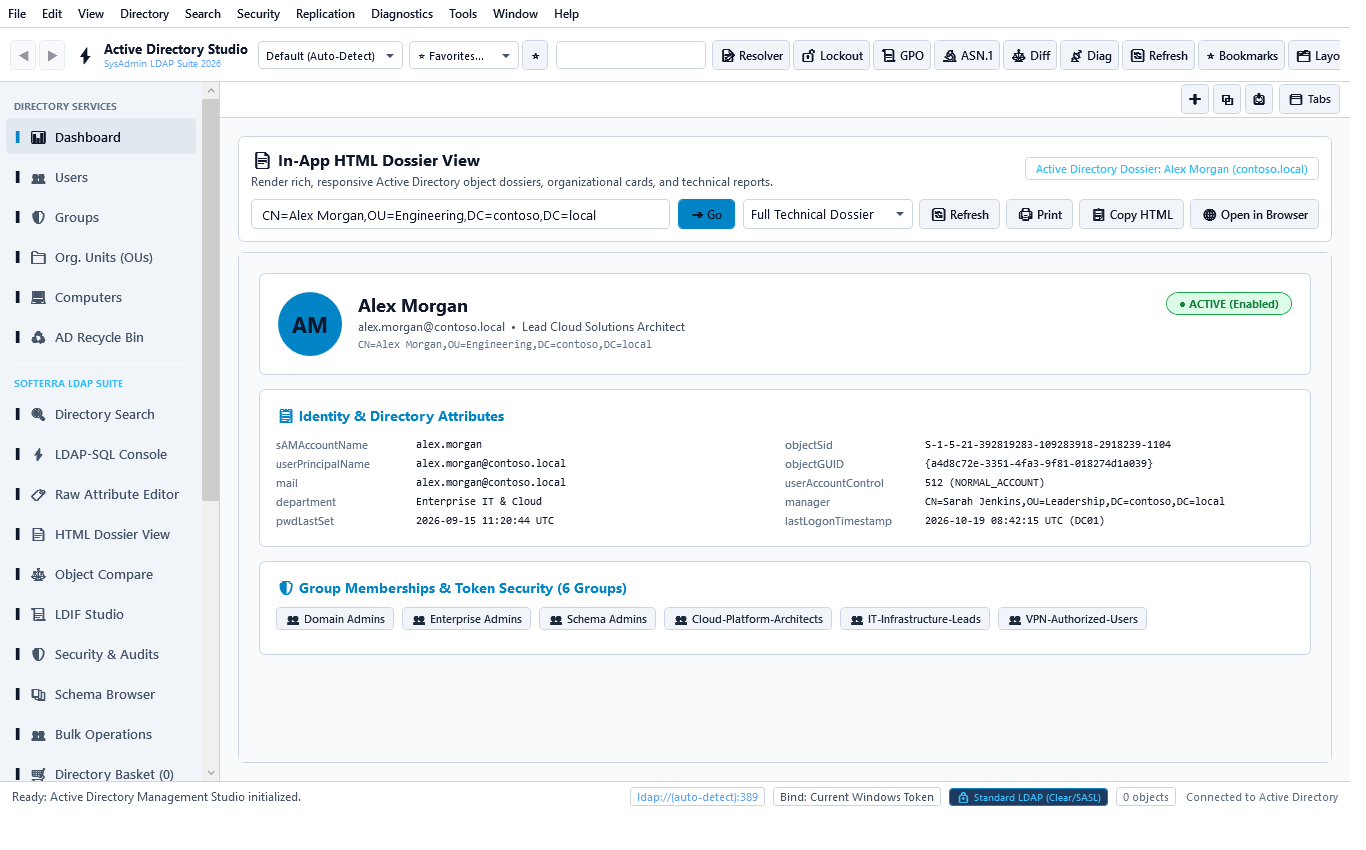
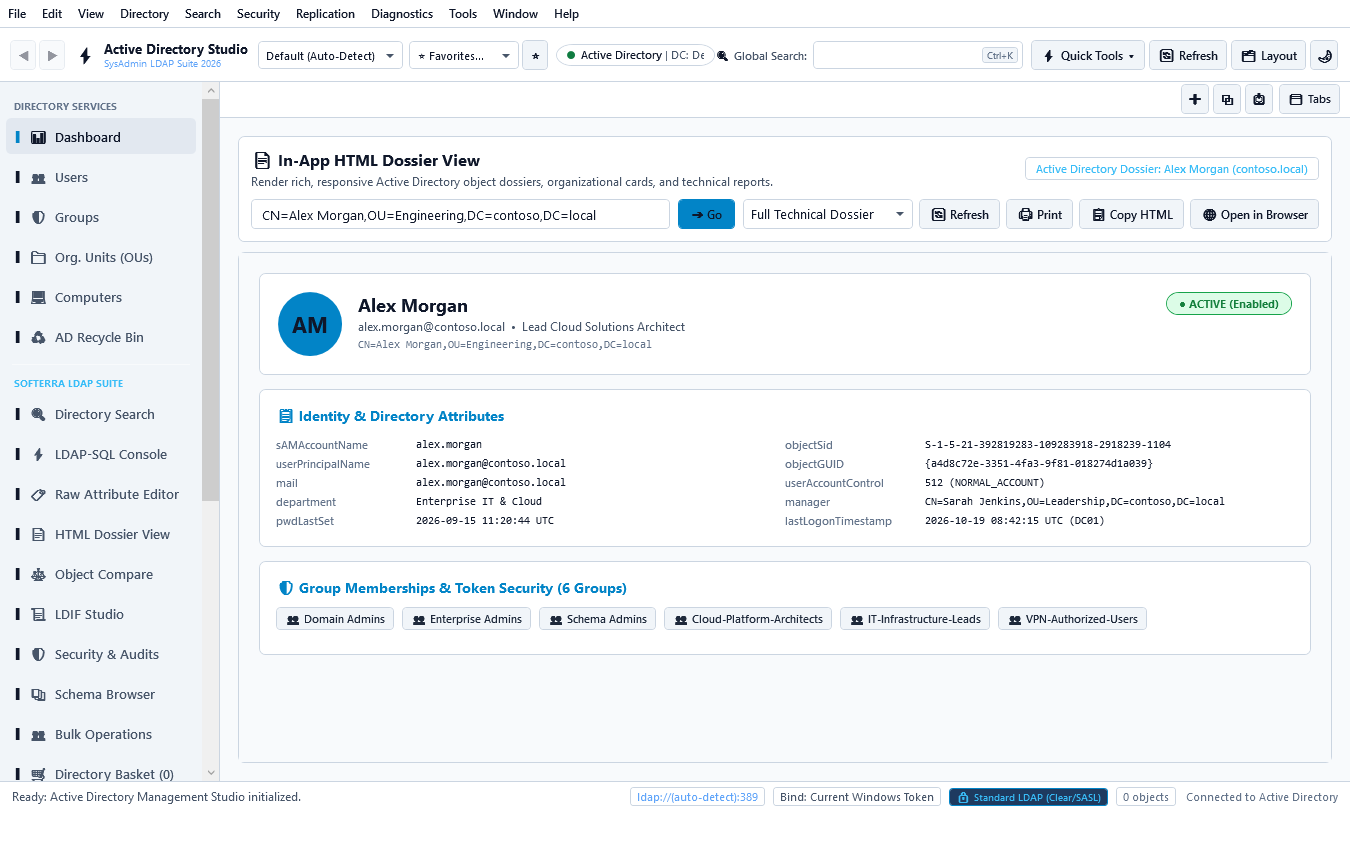
feat(ui): add Global Search label and consolidate top header into Quick Tools dropdown

Changed region(s): [[0.3997, 0.0306, 0.9839, 0.0918]]

diff --git a/Views/MainWindow.xaml b/Views/MainWindow.xaml
@@ -1006,6 +1006,13 @@
                     <MenuItem Name="MenuCsvComma" Header=", (Comma - Standard CSV)" IsCheckable="True"/>
                 </MenuItem>
                 <Separator/>
+                <MenuItem Header="🛠 _Utility Dialogs">
+                    <MenuItem Name="MenuToolsResolver" Header="📝 _Resolver Scratchpad..." InputGestureText="Ctrl+R"/>
+                    <MenuItem Name="MenuToolsGpoExplorer" Header="📜 _Group Policy Explorer &amp; GPOTool..."/>
+                    <MenuItem Name="MenuToolsDiffViewer" Header="⚖ Side-by-Side _Value Diff Viewer..."/>
+                    <MenuItem Name="MenuToolsAsn1Viewer" Header="🔬 _ASN.1 Structure &amp; Hex Viewer..."/>
+                </MenuItem>
+                <Separator/>
                 <MenuItem Name="MenuToolsSchemaBrowser" Header="🏛 Schema Browser &amp; Class Hierarchy"/>
                 <MenuItem Name="MenuToolsLdifStudio" Header="📝 LDIF Studio &amp; Script Execution"/>
                 <MenuItem Name="MenuToolsBulkEditor" Header="📑 Bulk CSV Provisioning &amp; Mutation"/>
@@ -1034,6 +1041,7 @@
                 <MenuItem Name="MenuHelpWiki" Header="🌐 Online Documentation &amp; Wiki"/>
                 <Separator/>
                 <MenuItem Name="MenuHelpRequestLog" Header="📡 Protocol Request Log &amp; Telemetry"/>
+                <MenuItem Name="MenuHelpOpenLogs" Header="📁 Open Application Logs Folder..." InputGestureText="Ctrl+Shift+L"/>
                 <MenuItem Name="MenuHelpAbout" Header="ℹ About Active Directory Management Studio..."/>
             </MenuItem>
         </Menu>
@@ -1092,117 +1100,81 @@
 
                 <!-- Right: Quick Search, Diagnostics & Refresh -->
                 <StackPanel Grid.Column="2" Orientation="Horizontal" VerticalAlignment="Center">
-                    <!-- Global Quick Search Omnibar (Softerra Ch09 / Screenshot 08 Parity) -->
-                    <Grid Margin="0,0,6,0" VerticalAlignment="Center">
-                        <TextBox Name="TxtGlobalSearch" Style="{StaticResource ModernTextBox}" Width="150" Height="28" Tag="🔍 Quick search..." FontSize="11" Padding="6,4"/>
-                        <Popup Name="PopupGlobalSearch" PlacementTarget="{Binding ElementName=TxtGlobalSearch}" Placement="Bottom" StaysOpen="False" AllowsTransparency="True" Width="450" MaxHeight="450">
-                            <Border Background="{DynamicResource DropDownBg}" BorderBrush="{DynamicResource DropDownBorderBrush}" BorderThickness="1" CornerRadius="6" Padding="6" Margin="0,4,0,0">
-                                <Grid>
-                                    <Grid.RowDefinitions>
-                                        <RowDefinition Height="Auto"/>
-                                        <RowDefinition Height="*"/>
-                                    </Grid.RowDefinitions>
-                                    <TextBlock Grid.Row="0" Name="TxtGlobalSearchStatus" Text="Quick Search Results" FontSize="11" FontWeight="Bold" Foreground="{DynamicResource AccentPrimary}" Margin="6,4,6,6"/>
-                                    <ListBox Grid.Row="1" Name="ListGlobalSearchResults" Background="Transparent" BorderThickness="0" MaxHeight="380" ScrollViewer.VerticalScrollBarVisibility="Auto" ScrollViewer.HorizontalScrollBarVisibility="Disabled" VirtualizingStackPanel.IsVirtualizing="True" ScrollViewer.CanContentScroll="True">
-                                        <ListBox.ItemTemplate>
-                                             <DataTemplate>
-                                                <Grid Margin="2,4">
-                                                    <Grid.ColumnDefinitions>
-                                                        <ColumnDefinition Width="Auto"/>
-                                                        <ColumnDefinition Width="*"/>
-                                                    </Grid.ColumnDefinitions>
-                                                    <Border Grid.Column="0" Background="{DynamicResource ButtonBg}" BorderBrush="{DynamicResource BorderBrushColor}" BorderThickness="1" CornerRadius="4" Padding="6,2" Margin="0,0,8,0" VerticalAlignment="Center">
-                                                        <TextBlock Text="{Binding Type}" FontSize="9.5" FontWeight="Bold" Foreground="{DynamicResource AccentPrimary}"/>
-                                                    </Border>
-                                                    <StackPanel Grid.Column="1" VerticalAlignment="Center">
-                                                        <TextBlock Text="{Binding Name}" FontWeight="SemiBold" FontSize="12" Foreground="{DynamicResource TextPrimary}"/>
-                                                        <TextBlock Text="{Binding DistinguishedName}" FontSize="10" Foreground="{DynamicResource TextSecondary}" TextTrimming="CharacterEllipsis"/>
-                                                    </StackPanel>
-                                                </Grid>
-                                             </DataTemplate>
-                                        </ListBox.ItemTemplate>
-                                    </ListBox>
-                                </Grid>
+                    <!-- Global Quick Search Omnibar with Left Label -->
+                    <StackPanel Orientation="Horizontal" VerticalAlignment="Center" Margin="0,0,8,0">
+                        <!-- Left "Global Search" Label -->
+                        <TextBlock Text="🔍" FontSize="11" VerticalAlignment="Center" Margin="0,0,4,0"/>
+                        <TextBlock Name="LblGlobalSearch" Text="Global Search:" FontWeight="SemiBold" FontSize="11" 
+                                   Foreground="{DynamicResource TextSecondary}" VerticalAlignment="Center" Margin="0,0,6,0"/>
+                        <Grid VerticalAlignment="Center">
+                            <TextBox Name="TxtGlobalSearch" Style="{StaticResource ModernTextBox}" Width="210" Height="28" Tag="Users, groups, computers, DNs..." FontSize="11" Padding="6,4,44,4"/>
+                            <!-- Keyboard shortcut indicator pill inside textbox -->
+                            <Border HorizontalAlignment="Right" VerticalAlignment="Center" Margin="0,0,5,0"
+                                    Background="{DynamicResource ButtonBg}" BorderBrush="{DynamicResource BorderBrushColor}"
+                                    BorderThickness="1" CornerRadius="3" Padding="4,1" IsHitTestVisible="False">
+                                <TextBlock Text="Ctrl+K" FontSize="9" FontWeight="SemiBold" Foreground="{DynamicResource TextMuted}"/>
                             </Border>
-                        </Popup>
-                    </Grid>
+                            <Popup Name="PopupGlobalSearch" PlacementTarget="{Binding ElementName=TxtGlobalSearch}" Placement="Bottom" StaysOpen="False" AllowsTransparency="True" Width="450" MaxHeight="450">
+                                <Border Background="{DynamicResource DropDownBg}" BorderBrush="{DynamicResource DropDownBorderBrush}" BorderThickness="1" CornerRadius="6" Padding="6" Margin="0,4,0,0">
+                                    <Grid>
+                                        <Grid.RowDefinitions>
+                                            <RowDefinition Height="Auto"/>
+                                            <RowDefinition Height="*"/>
+                                        </Grid.RowDefinitions>
+                                        <TextBlock Grid.Row="0" Name="TxtGlobalSearchStatus" Text="Quick Search Results" FontSize="11" FontWeight="Bold" Foreground="{DynamicResource AccentPrimary}" Margin="6,4,6,6"/>
+                                        <ListBox Grid.Row="1" Name="ListGlobalSearchResults" Background="Transparent" BorderThickness="0" MaxHeight="380" ScrollViewer.VerticalScrollBarVisibility="Auto" ScrollViewer.HorizontalScrollBarVisibility="Disabled" VirtualizingStackPanel.IsVirtualizing="True" ScrollViewer.CanContentScroll="True">
+                                            <ListBox.ItemTemplate>
+                                                 <DataTemplate>
+                                                    <Grid Margin="2,4">
+                                                        <Grid.ColumnDefinitions>
+                                                            <ColumnDefinition Width="Auto"/>
+                                                            <ColumnDefinition Width="*"/>
+                                                        </Grid.ColumnDefinitions>
+                                                        <Border Grid.Column="0" Background="{DynamicResource ButtonBg}" BorderBrush="{DynamicResource BorderBrushColor}" BorderThickness="1" CornerRadius="4" Padding="6,2" Margin="0,0,8,0" VerticalAlignment="Center">
+                                                            <TextBlock Text="{Binding Type}" FontSize="9.5" FontWeight="Bold" Foreground="{DynamicResource AccentPrimary}"/>
+                                                        </Border>
+                                                        <StackPanel Grid.Column="1" VerticalAlignment="Center">
+                                                            <TextBlock Text="{Binding Name}" FontWeight="SemiBold" FontSize="12" Foreground="{DynamicResource TextPrimary}"/>
+                                                            <TextBlock Text="{Binding DistinguishedName}" FontSize="10" Foreground="{DynamicResource TextSecondary}" TextTrimming="CharacterEllipsis"/>
+                                                        </StackPanel>
+                                                    </Grid>
+                                                 </DataTemplate>
+                                            </ListBox.ItemTemplate>
+                                        </ListBox>
+                                    </Grid>
+                                </Border>
+                            </Popup>
+                        </Grid>
+                    </StackPanel>
 
-                    <!-- Resolver Scratchpad Quick Button (Ctrl+R) -->
-                    <Button Name="BtnHeaderResolver" Style="{StaticResource ModernButton}" Height="28" Margin="0,0,3,0" Padding="6,3" ToolTip="Open Resolver Scratchpad: Bulk parse and resolve entities (Ctrl+R)">
-                        <StackPanel Orientation="Horizontal">
-                            <TextBlock Text="📝" Margin="0,0,3,0"/>
-                            <TextBlock Name="TxtHeaderResolver" Text="Resolver"/>
+                    <!-- Consolidated Quick Tools Dropdown Button -->
+                    <Button Name="BtnHeaderQuickTools" Style="{StaticResource ModernButton}" Height="28" Margin="0,0,4,0" Padding="8,3" ToolTip="Quick Tools: Resolver Scratchpad, Lockout, GPO Explorer, ASN.1, Diff Viewer &amp; Logs">
+                        <StackPanel Orientation="Horizontal" VerticalAlignment="Center">
+                            <TextBlock Text="⚡" Margin="0,0,4,0" VerticalAlignment="Center"/>
+                            <TextBlock Name="TxtHeaderQuickTools" Text="Quick Tools" VerticalAlignment="Center" FontWeight="SemiBold"/>
+                            <TextBlock Text=" ▾" FontSize="9" VerticalAlignment="Center" Margin="2,0,0,0"/>
                         </StackPanel>
                     </Button>
 
-                    <!-- Quick Lockout Investigator -->
-                    <Button Name="BtnHeaderLockout" Style="{StaticResource ModernButton}" Height="28" Margin="0,0,3,0" Padding="6,3" ToolTip="Quick Account Lockout Investigator &amp; Unlocker">
-                        <StackPanel Orientation="Horizontal">
-                            <TextBlock Text="🔓" Margin="0,0,3,0"/>
-                            <TextBlock Name="TxtHeaderLockout" Text="Lockout"/>
-                        </StackPanel>
-                    </Button>
-
-                    <!-- Pinned Suite Launchers -->
-                    <Button Name="BtnHeaderGpoExplorer" Style="{StaticResource ModernButton}" Height="28" Margin="0,0,3,0" Padding="6,3" ToolTip="Launch Group Policy Explorer &amp; GPOTool Multi-DC Consistency">
-                        <StackPanel Orientation="Horizontal">
-                            <TextBlock Text="📜" Margin="0,0,3,0"/>
-                            <TextBlock Name="TxtHeaderGpo" Text="GPO"/>
-                        </StackPanel>
-                    </Button>
-
-                    <Button Name="BtnHeaderAsn1Viewer" Style="{StaticResource ModernButton}" Height="28" Margin="0,0,3,0" Padding="6,3" ToolTip="Launch ASN.1 Structure &amp; Synchronized Hex Dump Viewer">
-                        <StackPanel Orientation="Horizontal">
-                            <TextBlock Text="🔬" Margin="0,0,3,0"/>
-                            <TextBlock Name="TxtHeaderAsn1" Text="ASN.1"/>
-                        </StackPanel>
-                    </Button>
-
-                    <Button Name="BtnHeaderDiffViewer" Style="{StaticResource ModernButton}" Height="28" Margin="0,0,3,0" Padding="6,3" ToolTip="Launch Side-by-Side Value &amp; Attribute Diff Viewer">
-                        <StackPanel Orientation="Horizontal">
-                            <TextBlock Text="⚖" Margin="0,0,3,0"/>
-                            <TextBlock Name="TxtHeaderDiff" Text="Diff"/>
-                        </StackPanel>
-                    </Button>
-
-                    <Button Name="BtnDiagnostics" Style="{StaticResource ModernButton}" Height="28" Margin="0,0,3,0" Padding="6,3" ToolTip="Launch Directory Diagnostics &amp; Port Monitor">
-                        <StackPanel Orientation="Horizontal">
-                            <TextBlock Text="📡" Margin="0,0,3,0"/>
-                            <TextBlock Name="TxtHeaderDiag" Text="Diag"/>
-                        </StackPanel>
-                    </Button>
-
-                    <Button Name="BtnGlobalRefresh" Style="{StaticResource ModernButton}" Height="28" Margin="0,0,3,0" Padding="6,3" ToolTip="Refresh All Directory Data (F5)">
-                        <StackPanel Orientation="Horizontal">
-                            <TextBlock Text="🔄" Margin="0,0,3,0"/>
-                            <TextBlock Name="TxtHeaderRefresh" Text="Refresh"/>
-                        </StackPanel>
-                    </Button>
-
-                    <Button Name="BtnHeaderFavorites" Style="{StaticResource ModernButton}" Height="28" Margin="0,0,3,0" Padding="6,3" ToolTip="Quick Directory Favorites &amp; Bookmarks (Ctrl+D)">
-                        <StackPanel Orientation="Horizontal">
-                            <TextBlock Text="⭐" Margin="0,0,3,0"/>
-                            <TextBlock Name="TxtHeaderFavorites" Text="Bookmarks"/>
+                    <!-- Global Refresh Button (F5) -->
+                    <Button Name="BtnGlobalRefresh" Style="{StaticResource ModernButton}" Height="28" Margin="0,0,4,0" Padding="8,3" ToolTip="Refresh All Directory Data (F5)">
+                        <StackPanel Orientation="Horizontal" VerticalAlignment="Center">
+                            <TextBlock Text="🔄" Margin="0,0,4,0" VerticalAlignment="Center"/>
+                            <TextBlock Name="TxtHeaderRefresh" Text="Refresh" VerticalAlignment="Center" FontWeight="SemiBold"/>
                         </StackPanel>
                     </Button>
 
                     <!-- Workspace & Window Layout Switcher Button -->
-                    <Button Name="BtnWorkspaceLayoutMenu" Style="{StaticResource ModernButton}" Height="28" Margin="0,0,3,0" Padding="6,3" ToolTip="Switch Workspace &amp; Window Layout: Multi-Tab Workspace, Single Viewport, Detach &amp; Dock Windows (Ctrl+Shift+M)">
+                    <Button Name="BtnWorkspaceLayoutMenu" Style="{StaticResource ModernButton}" Height="28" Margin="0,0,4,0" Padding="8,3" ToolTip="Switch Workspace &amp; Window Layout: Multi-Tab Workspace, Single Viewport, Detach &amp; Dock Windows (Ctrl+Shift+M)">
                         <StackPanel Orientation="Horizontal" VerticalAlignment="Center">
-                            <TextBlock Name="TxtHeaderLayoutIcon" Text="🗂" Margin="0,0,3,0" VerticalAlignment="Center"/>
+                            <TextBlock Name="TxtHeaderLayoutIcon" Text="🗂" Margin="0,0,4,0" VerticalAlignment="Center"/>
                             <TextBlock Name="TxtHeaderLayoutText" Text="Layout" VerticalAlignment="Center" FontWeight="SemiBold"/>
                         </StackPanel>
                     </Button>
 
-                    <Button Name="BtnQuickThemeToggle" Style="{StaticResource ModernButton}" Width="28" Height="28" Margin="2,0,0,0" Padding="0" ToolTip="Quick Toggle Theme: Dark / Light Mode (Ctrl+T)">
+                    <!-- Quick Toggle Theme: Dark / Light Mode (Ctrl+T) -->
+                    <Button Name="BtnQuickThemeToggle" Style="{StaticResource ModernButton}" Width="28" Height="28" Margin="0,0,2,0" Padding="0" ToolTip="Quick Toggle Theme: Dark / Light Mode (Ctrl+T)">
                         <TextBlock Name="TxtQuickThemeIcon" Text="🌙" FontSize="12" HorizontalAlignment="Center" VerticalAlignment="Center"/>
-                    </Button>
-
-                    <Button Name="BtnHeaderLogs" Style="{StaticResource ModernButton}" Height="28" Margin="3,0,0,0" Padding="6,3" ToolTip="Open Application Logs Folder for Diagnostics &amp; Debugging (Ctrl+Shift+L)">
-                        <StackPanel Orientation="Horizontal" VerticalAlignment="Center">
-                            <TextBlock Text="📁" Margin="0,0,3,0" VerticalAlignment="Center"/>
-                            <TextBlock Name="TxtHeaderLogs" Text="Logs" VerticalAlignment="Center" FontWeight="SemiBold"/>
-                        </StackPanel>
                     </Button>
                 </StackPanel>
             </Grid>
